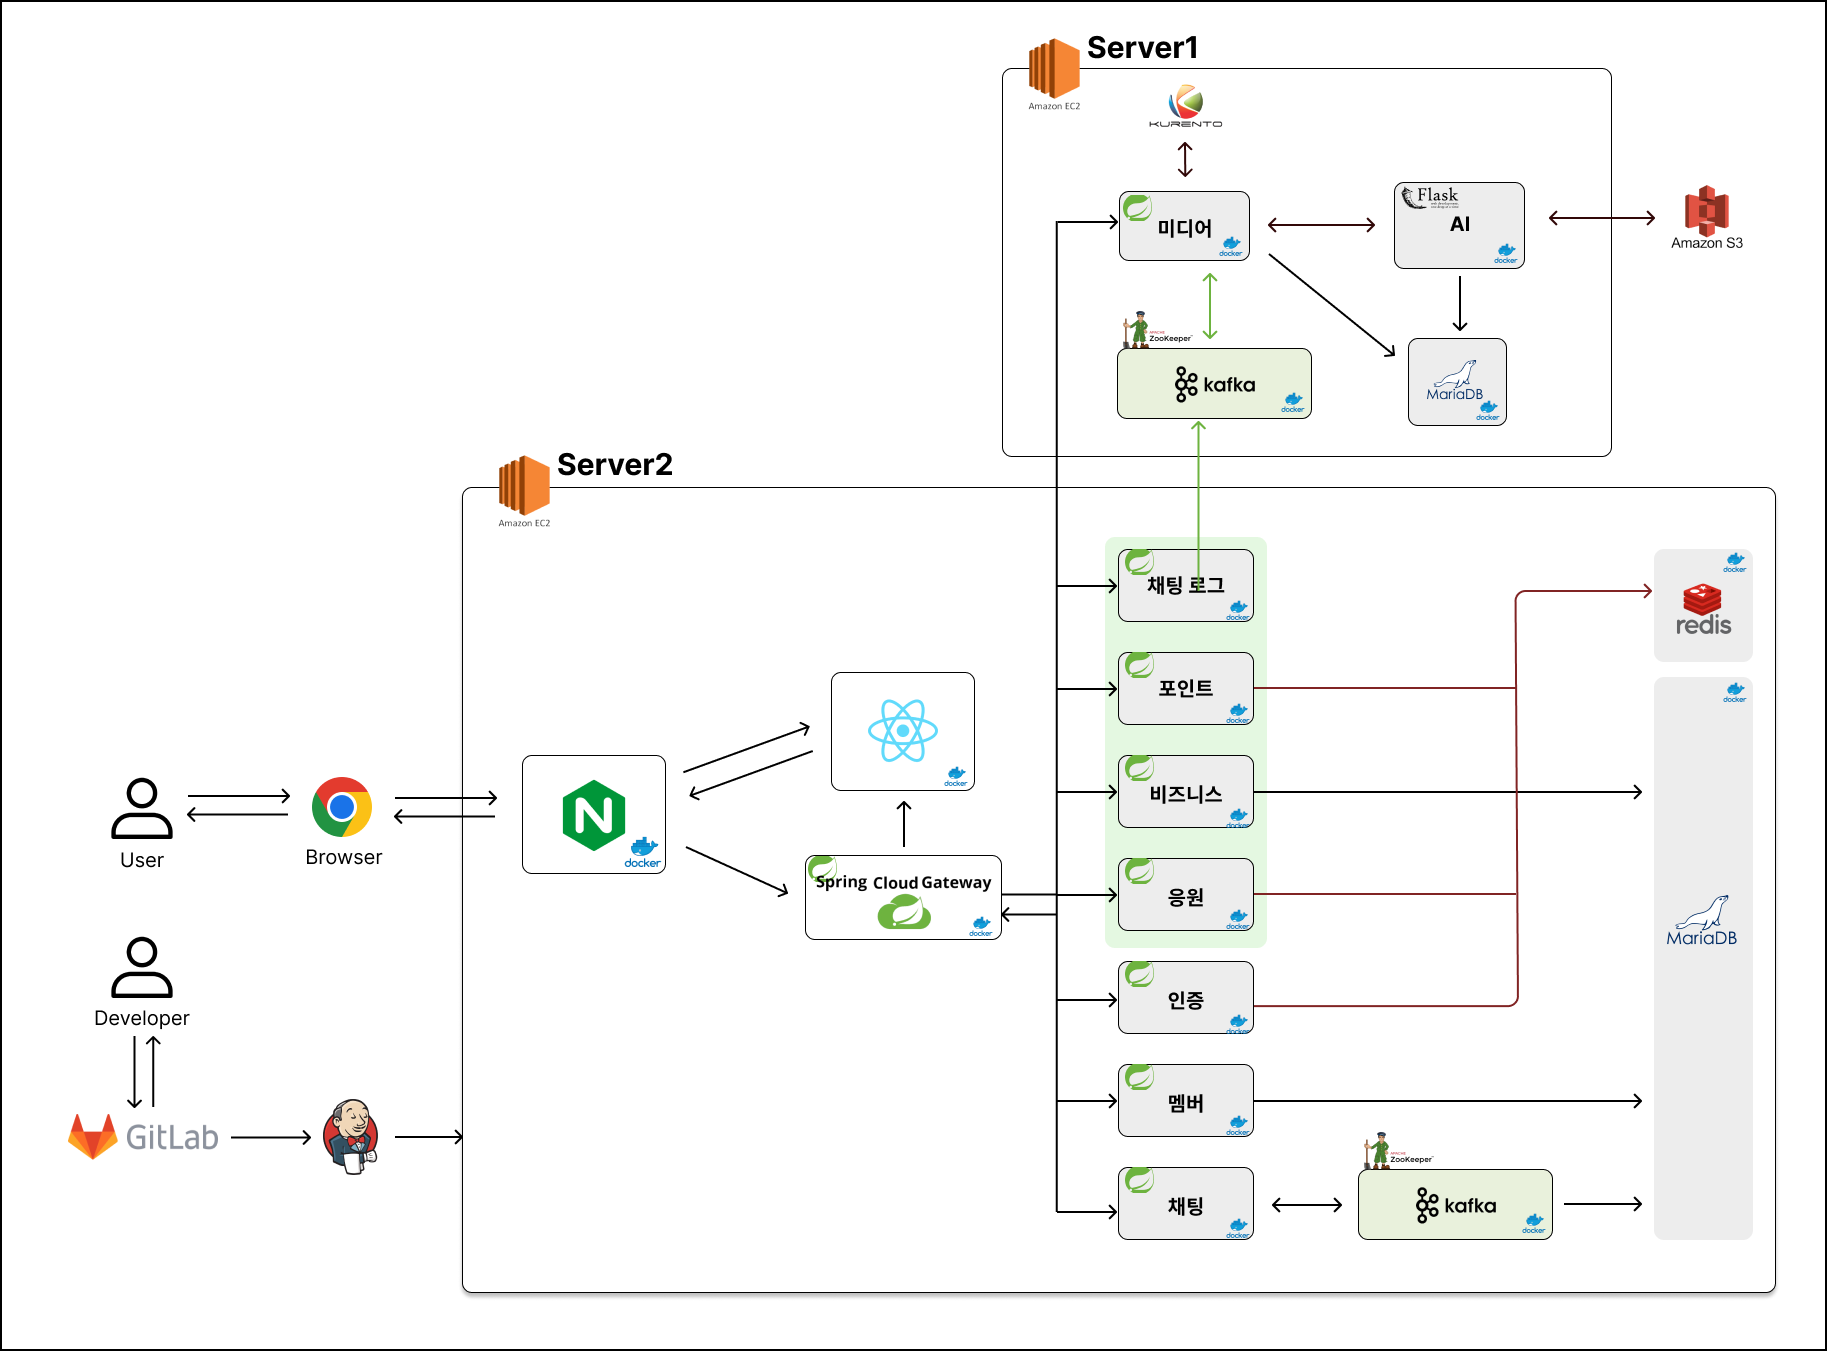
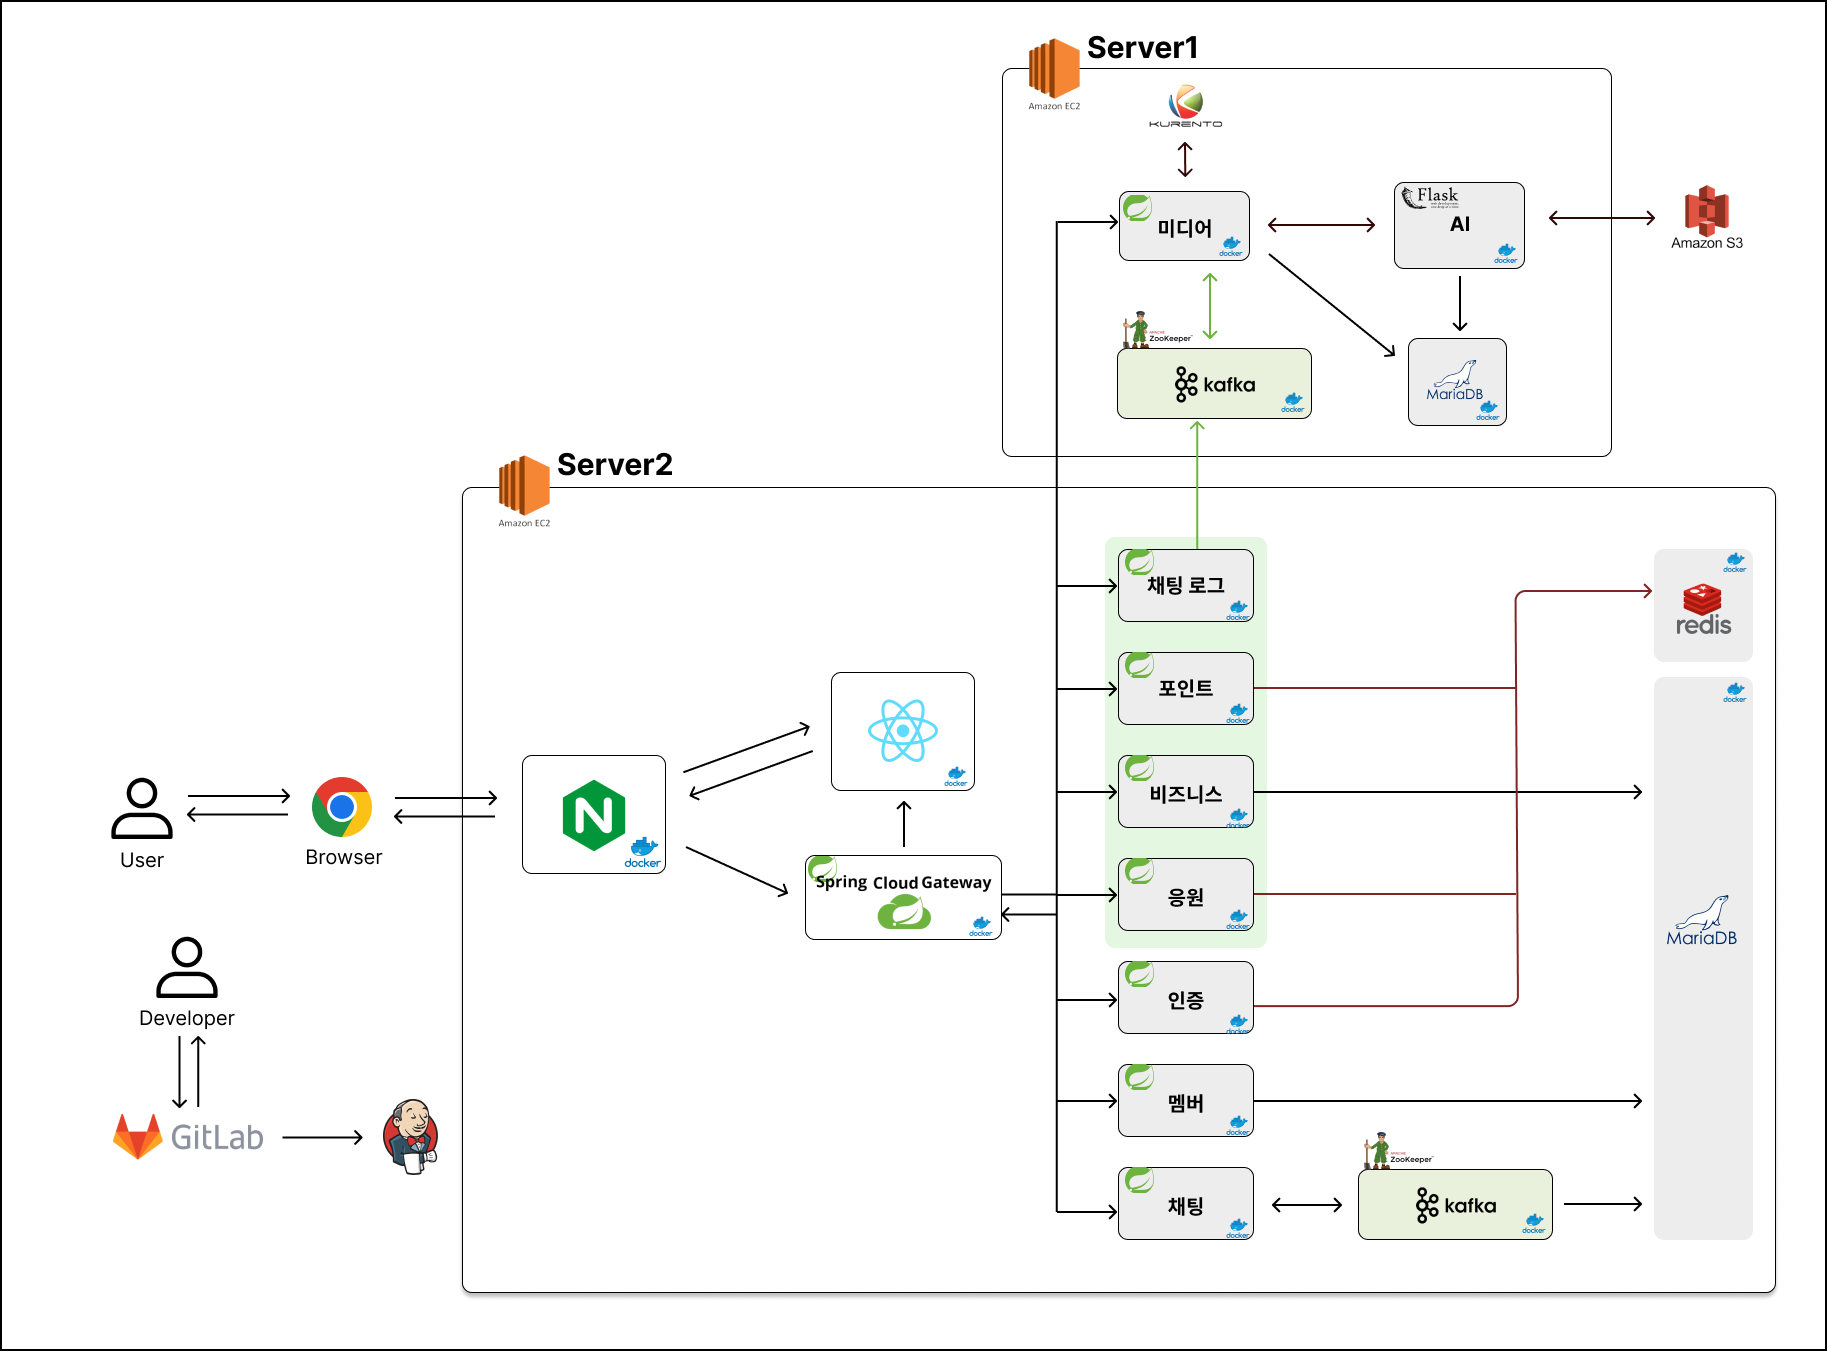
README 작성

Changed region(s): [[0.0312, 0.6839, 0.2496, 0.8705]]

diff --git a/README.md b/README.md
@@ -15,6 +15,19 @@
 상대 팀보다 더 많이 클릭수를 올려 원하는 팀을 응원할 수 있답니다! <br>
 중계 방송이 끝나면, 오늘 경기 하이라이트 영상을 통해 생성한 포토카드를 놓치지 말고 구매하세요! 
 
+<br>
+
+## 💌 서비스 소개
+
+**KBO 시장 주 고객인 MZ 세대를 타겟팅**
+- KBO 리그 실시간 스트리밍 중계 (저작권 문제로 영상으로 대체하여 구현)
+- 베팅 : 서비스 자체 포인트 제도로 건전한 확률 게임 도입
+- 하이라이트 포토카드 : 실시간으로 생성되는 하이라이트 짤을 포인트로 랜덤 구매하며 경기 종료 후에도 지속적인 흥미 유발
+
+**재미 요소**
+- 일반 채팅 & 팀 채팅 : 모든 시청자와 소통할 수 있는 채팅과 더불어 본인의 응원팀 시청자와 소통할 수 있는 팀 채팅 존재
+- 응원 : 경기를 시청하며 팬들 간 경쟁적 요소 도입
+
 
 <br><br>
 
@@ -28,12 +41,12 @@
 <br><br>
 
 ## 🔧 기술스택
-<img src=".\Document\images\기술스택.png">
+<img src=".\Document\images\기술스택2.png">
 
 <br><br>
 
 ## 🔌 서비스 아키텍처
-<img src=".\Document\images\시스템아키텍처2.png">
+<img src=".\Document\images\시스템아키텍처.png">
 
 <br>
 
@@ -46,6 +59,7 @@
 
 #### **⚾ 경기 목록 및 중계 화면** <br>
 오늘 경기 목록에서 중계 화면으로 이동할 수 있습니다. 
+(kurento Media Server를 사용하여 비디오 스트리밍 환경 구축)
 <img src=".\Document\images\경기목록.png">
 <img src=".\Document\images\실시간전체.png">
 
@@ -53,25 +67,30 @@
 경기 시작 전에 예상한 승리팀에 원하는 포인트 만큼 베팅하고 <br>
 경기가 시작하면 각 팀의 베팅률과 예상 배당금을 확인할 수 있습니다. <br>
 경기가 끝나면 경기 결과에 따라 예상 배당금이 지급됩니다. 
+(예상 승리팀에 포인트를 베팅하고, 경기 결과에 따라 배당금을 지급받는 Restful API 개발)
 <img src=".\Document\images\베팅.gif">
 <img src=".\Document\images\배당금.gif">
 
 
 #### **⚾ 응원** <br>
 경기 시작 전, 후에 상관없이 원하는 팀의 클릭수를 올려 응원할 수 있습니다.  
+(Websocket을 사용하여 원하는 팀을 클릭하여 응원하는 서비스 구현)
 <img src=".\Document\images\응원.gif"> 
 
 
 #### **⚾ 채팅** <br>
 회원가입 시 선택한 My 야구 팀이 동일한 회원들만 참여 가능한 팀 채팅과 <br>
 팀 관계없이 모두 참여 가능한 전체 채팅을 할 수 있습니다. 
+(STOMP(Websocket), Kafka를 사용하여 전체 채팅 / 마이팀 채팅 구현)
 <img src=".\Document\images\마이팀채팅.gif">
 <img src=".\Document\images\전체채팅.gif">
 
 
 #### **⚾ 포토카드** <br>
 경기 중, 채팅 로그를 통해 채팅이 일시적으로 급증하는 것을 감지한 후 해당 장면에 대한 포토카드를 생성합니다. <br>
+(채팅 데이터 추이를 분석하여 하이라이트 시간대 추출 → 비디오를 .GIF로 변환)
 경기가 끝나면 랜덤으로 사용자들이 포토카드를 구매할 수 있습니다. 
+(유저의 포인트를 차감하여 카드를 구매하는 Restful API 개발)
 <img src=".\Document\images\포토카드구매.gif">
 
 #### **⚾ 마이페이지** <br>
